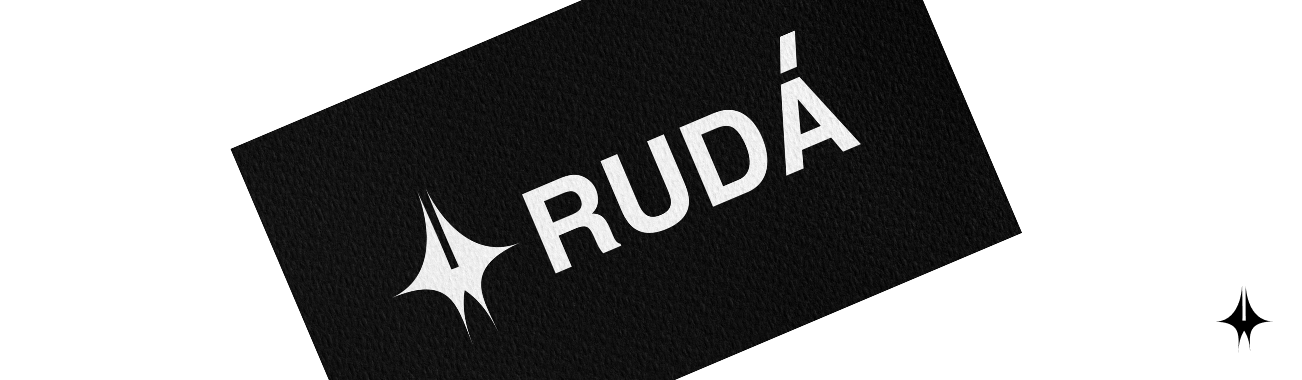
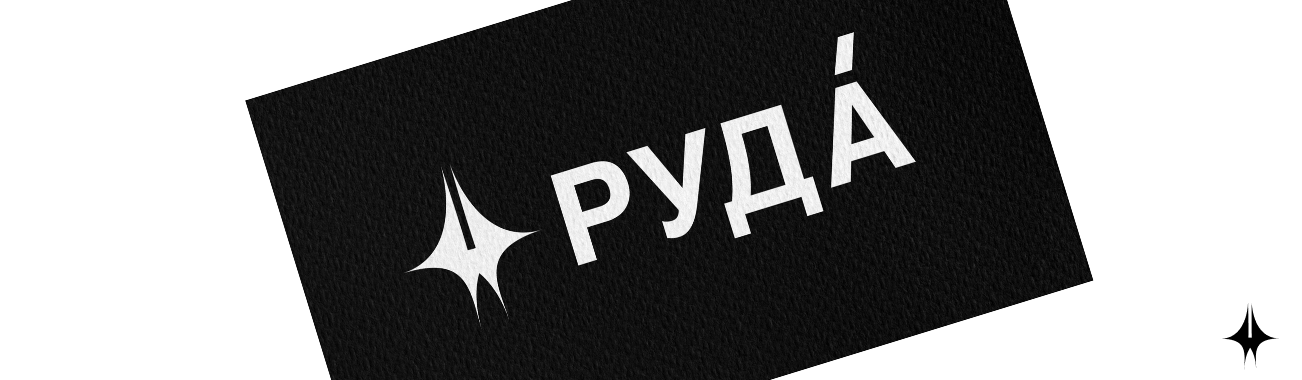
Updated files

diff --git a/index.html b/index.html
@@ -1,0 +1,232 @@
+<!DOCTYPE html>
+<html lang="ru">
+
+<head>
+    <meta charset="UTF-8">
+    <meta name="viewport" content="width=device-width, initial-scale=1.0">
+    <link rel="stylesheet" href="css/style.css">
+    <title>Document</title>
+</head>
+
+<body>
+
+    <header class="header">
+        <a href="index.html" class="header__logo">
+            <svg width="189" height="65">
+                <use xlink:href="assets/sprite/sprite.svg#icon-logo-white"></use>
+            </svg>
+        </a>
+        <nav class="header__nav">
+            <button class="header__burger" aria-label="Меню">
+                <svg class="header__burger-icon" width="34" height="34">
+                    <use xlink:href="assets/sprite/sprite.svg#burger-black"></use>
+                </svg>
+            </button>
+            <ul class="header__menu">
+                <li class="header__item header__item--active">
+                    <a href="index.html" class="header__link">главная</a>
+                </li>
+                <li class="header__item">
+                    <a href="pages/author.html" class="header__link">Автор</a>
+                </li>
+                <li class="header__item">
+                    <a href="pages/process.html" class="header__link">Процесс</a>
+                </li>
+                <li class="header__item">
+                    <a href="pages/services.html" class="header__link">Услуги</a>
+                </li>
+                <li class="header__item">
+                    <a href="pages/archive.html" class="header__link">Архив</a>
+                </li>
+                <li class="header__item">
+                    <a href="pages/contacts.html" class="header__link">Контакты</a>
+                </li>
+            </ul>
+        </nav>
+    </header>
+
+    <main class="main">
+        <div class="main__wrapper">
+            <div class="main__left-side">
+
+                <div class="main__left-inner">
+                    <img src="assets/img/avatar.png" alt="" class="main__left-img">
+                    <p class="main__left-text">дизайнер</p>
+                </div>
+                <div class="main__left-inner">
+                    <p class="main__left-text">студия руда</p>
+                    <svg width="46" height="46" viewBox="0 0 46 46">
+                        <use xlink:href="assets/sprite/sprite.svg#icon-white"></use>
+                    </svg>
+                </div>
+
+            </div>
+            <div class="main__center-side">
+                <div class="main__card">
+                    <div class="main__card-img-wrapper">
+                        <img src="assets/img/main-img.png" alt="" class="main__card-img">
+                    </div>
+                    <div class="main__inner">
+                        <p class="main__card-text">
+                            Анимационная визуальная история в&nbsp;технике диджитал коллажа: &quot; Вместо прощения
+                            своего отца, юный монах проводит ему проповедь.....
+                        </p>
+                        <a href="pages/archive.html#otec" class="main__btn">
+                            К проекту
+                        </a>
+                    </div>
+                </div>
+                <div class="main__wrapper-text">
+                    <svg width="16" height="116">
+                        <use xlink:href="assets/sprite/sprite.svg#icon-dot-color"></use>
+                    </svg>
+
+                    <div class="main__inner js-typewriter-container">
+                        <p class="main__text js-typewriter-line is-crossed">
+                            архив руда /
+                        </p>
+                        <p class="main__text js-typewriter-line is-crossed">
+                            документация визуальных систем/
+                        </p>
+                        <p class="main__text js-typewriter-line is-crossed">
+                            состояние в процессе /
+                        </p>
+                    </div>
+                </div>
+                <ul class="main__tags main__tags--top">
+                    <li class="main__tag main__tag--right">
+                        анимация
+                    </li>
+                    <li class="main__tag">
+                        комикс
+                    </li>
+                    <li class="main__tag">
+                        постер
+                    </li>
+                </ul>
+                <ul class="main__tags main__tags-bottom">
+                    <li class="main__tag">
+                        веб-дизайн
+                    </li>
+                    <li class="main__tag">
+                        логотип
+                    </li>
+                    <li class="main__tag">
+                        брендинг
+                    </li>
+                </ul>
+                <div class="main__bottom">
+                    <h1 class="main__title">
+                        создавай <br> свои визуальные <br> вселенные &nbsp; —
+                    </h1>
+                    <a href="pages/services.html" class="main__btn-bottom">
+                        узнать как
+                    </a>
+                </div>
+            </div>
+            <div class="main__right-side">
+                <img src="assets/img/group-140.png" alt="" class="main__img">
+            </div>
+        </div>
+
+    </main>
+
+    <section class="ready">
+        <div class="ready__wrapper">
+            
+            <ul class="ready__marquee-tags main__tags">
+                <li class="main__tag">веб-дизайн</li>
+                <li class="main__tag">логотип</li>
+                <li class="main__tag">брендинг</li>
+                <li class="main__tag">анимация</li>
+                <li class="main__tag">комикс</li>
+                <li class="main__tag">постер</li>
+            </ul>
+            <div class="ready__left">
+                <div class="ready__img-wrapper">
+                    <img src="assets/img/photo_2023-10-06_21-42-30 2.png" alt="" class="ready__img">
+                </div>
+            </div>
+            <div class="ready__right">
+                <h2 class="ready__title">
+                    стань игроком, а <br> не наблюдателем
+                </h2>
+                <div class="ready__wrapper-text">
+                    <svg width="16" height="116">
+                        <use xlink:href="assets/sprite/sprite.svg#icon-dot-red"></use>
+                    </svg>
+    
+                    <div class="ready__inner">
+                        <p class="ready__text">
+                            оставить заявку
+                        </p>
+                        <p class="ready__text">
+                            получить консультацию
+                        </p>
+                        <p class="ready__text">
+                            наблюдай результаты
+                        </p>
+                    </div>
+                </div>
+            </div>
+        </div>
+    </section>
+
+    <section class="work">
+        <div class="work__wrapper">
+            <div class="work__list">
+                <div class="work__img-wrapper">
+                    <img src="assets/img/project-1.png" alt="" class="work__img">
+                </div>
+                <div class="work__img-wrapper">
+                    <img src="assets/img/project-2.png" alt="" class="work__img">
+                </div>
+                <div class="work__img-wrapper">
+                    <img src="assets/img/project-3.png" alt="" class="work__img">
+                </div>
+            </div>
+            <div class="work__more">
+                <svg width="52" height="33" viewBox="0 0 52 33">
+                    <use xlink:href="assets/sprite/sprite.svg#icon-right-arrow"></use>
+                </svg>
+                <a href="#" class="work__link">
+                    больше проектов
+                </a>
+                <svg width="52" height="33" viewBox="0 0 52 33">
+                    <use xlink:href="assets/sprite/sprite.svg#icon-left-arrow"></use>
+                </svg>
+            </div>
+        </div>
+
+    </section>
+    <section class="feedback">
+        <div class="feedback__wrapper">
+            <div class="feedback__inner">
+                <div class="feedback__wrapper-photo">
+                    <img src="assets/img/feedback2.png" alt="" class="feedback__img">
+                    <a href="pages/contacts.html" class="feedback__link">связаться</a>
+                </div>
+                <div class="feedback__wrapper-text">
+                    <a class="feedback__btn" href="assets/img/doc.png" target="_blank">открыть документ</a>
+                    <p class="feedback__text">
+                        Руда - официальная компания
+                    </p>
+                </div>
+            </div>
+        </div>
+    </section>
+    <footer class="footer">
+        <p class="footer__text">
+            2026
+        </p>
+        <p class="footer__text">
+            создавай визуальные вселенные
+        </p>
+        <p class="footer__text">
+            руда дизайн
+        </p>
+    </footer>
+    <script type="module" src="js/main.js"></script>
+</body>
+
+</html>

diff --git a/css/block/services.css b/css/block/services.css
@@ -43,15 +43,26 @@
     background-color: var(--color-refresh-black);
     color: var(--color-white);
     text-transform: uppercase;
-    font-size: 40px;
+    font-size: clamp(24px, 3vw, 40px);
     font-weight: 400;
     letter-spacing: 0.05em;
     text-align: center;
     padding: 20px;
     border-radius: 60px;
-    width: 100%;
-    max-width: 900px;
-    margin: 0 auto 20px auto;
+    width: 88%;
+    margin: 0 auto 20px 0;
+}
+
+@media (min-width: 1024px) {
+    .services__page-title {
+        width: 75%;
+    }
+}
+
+@media (min-width: 1440px) {
+    .services__page-title {
+        width: 80%;
+    }
 }
 
 .services__group {

diff --git a/css/block/archive.css b/css/block/archive.css
@@ -1,4 +1,4 @@
-.archive {
+.archive {
     padding: 39px 60px;
 }
 
@@ -160,7 +160,7 @@
     color: var(--color-black);
     text-align: center;
     margin-bottom: 53px;
-    border-radius: 48px;
+    border-radius: 100px;
     padding: 26px 40px;
     font-size: 48px;
 
@@ -289,8 +289,8 @@
     }
 
     .archive__btn {
-        font-size: 22px;
-        padding: 18px 20px;
+        font-size: 16px;
+        padding: 9px 20px;
         width: 100%;
     }
 }

diff --git a/css/block/author.css b/css/block/author.css
@@ -295,7 +295,7 @@
     }
 
     .author__box-star {
-        display: block;
+        display: none;
         position: absolute;
         bottom: 0;
         right: 60px;
@@ -429,7 +429,7 @@
     }
 
     .author__box-star {
-        display: block;
+        display: none;
         position: absolute;
         bottom: 0;
         right: 25px;

diff --git a/pages/archive.html b/pages/archive.html
@@ -10,7 +10,7 @@
 <body>
     <header class="header header--black">
         <a href="../index.html" class="header__logo">
-            <svg width="188" height="63">
+            <svg width="189" height="65">
                 <use xlink:href="../assets/sprite/sprite.svg#icon-logo-black"></use>
             </svg>
         </a>

diff --git a/pages/author.html b/pages/author.html
@@ -9,7 +9,7 @@
 <body>
     <header class="header">
         <a href="../index.html" class="header__logo">
-            <svg width="188" height="63">
+            <svg width="189" height="65">
                 <use xlink:href="../assets/sprite/sprite.svg#icon-logo-white"></use>
             </svg>
         </a>

diff --git a/pages/contacts.html b/pages/contacts.html
@@ -11,7 +11,7 @@
 <body>
     <header class="header header--black">
         <a href="../index.html" class="header__logo">
-            <svg width="188" height="63">
+            <svg width="189" height="65">
                 <use xlink:href="../assets/sprite/sprite.svg#icon-logo-black"></use>
             </svg>
         </a>

diff --git a/pages/process.html b/pages/process.html
@@ -9,7 +9,7 @@
 <body>
     <header class="header">
         <a href="../index.html" class="header__logo">
-            <svg width="188" height="63">
+            <svg width="189" height="65">
                 <use xlink:href="../assets/sprite/sprite.svg#icon-logo-white"></use>
             </svg>
         </a>

diff --git a/pages/services.html b/pages/services.html
@@ -9,7 +9,7 @@
 <body>
     <header class="header header--black">
         <a href="../index.html" class="header__logo">
-            <svg width="188" height="63">
+            <svg width="189" height="65">
                 <use xlink:href="../assets/sprite/sprite.svg#icon-logo-black"></use>
             </svg>
         </a>